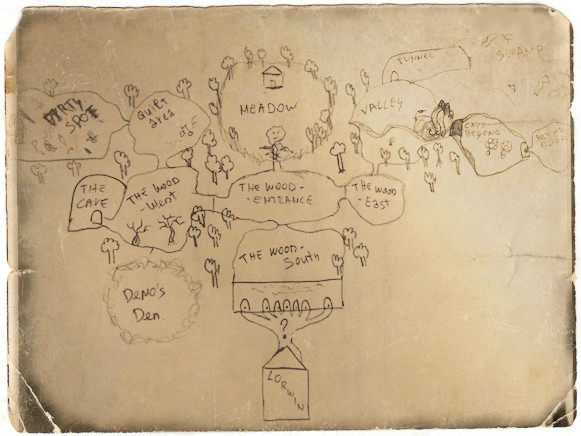
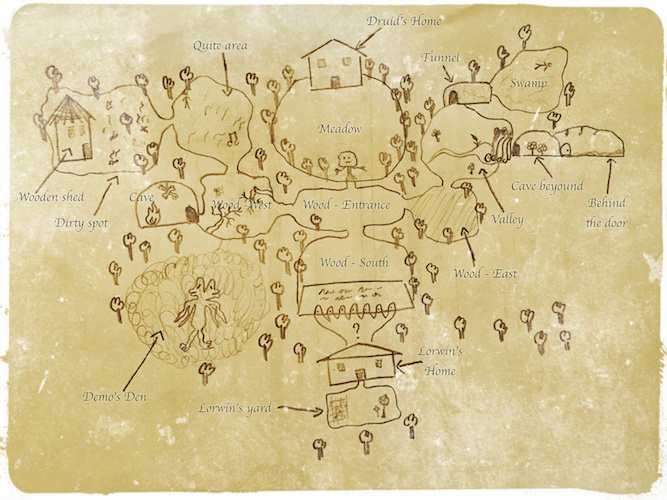
bug fixes, new map

diff --git a/asd/src/Map.java b/asd/src/Map.java
@@ -160,15 +160,44 @@ public class Map implements Serializable{
 		cupboard.addMoney(50);
 		cupboard.addTool(new Tool("apple", "A green apple, it seems still sour", 2));
 		Rooms[2].addFixed(cupboard);
-
+		
 		NpcGood treant = new NpcGood("treant", "an enormous alive tree that blocks the passage to the wood", 100, 130,
 				false, "Pa ohz illu hyvbuk mvy tpsspvuz vm flhyz, iba pa pz uv tvyl aohu h tvuao vsk. Doha pz pa?");
 		Rooms[3].addnpcs(treant);
 		
-		Fixed chest8 = new Fixed("chest", null);
-		Tool mapPiece1 = new Tool("map piece","a piece of a map that looks more like a sketch made by a kid",0);
-		chest8.addTool(mapPiece1);
-		Rooms[4].addFixed(chest8);
+//		Tool apples = new Tool("a", "a green apple, seems quite sour", 5);
+//		Rooms[3].addTool(apples);
+//		Tool apple1r = new Tool("b", "a green apple, seems quite sour", 5);
+//		Rooms[3].addTool(apple1r);
+//		Tool apple2r = new Tool("c", "a green apple, seems quite sour", 5);
+//		Rooms[3].addTool(apple2r);
+//		Tool apple3 = new Tool("d", "a green apple, seems quite sour", 5);
+//		Rooms[3].addTool(apple3);
+//		Tool apple4 = new Tool("e", "a green apple, seems quite sour", 5);
+//		Rooms[3].addTool(apple4);
+//		Tool apple44 = new Tool("f", "a green apple, seems quite sour", 5);
+//		Rooms[3].addTool(apple44);
+//		Tool apple24 = new Tool("g", "a green apple, seems quite sour", 5);
+//		Rooms[3].addTool(apple24);
+//		Tool apple34 = new Tool("h", "a green apple, seems quite sour", 5);
+//		Rooms[3].addTool(apple34);
+//		Tool applee = new Tool("i", "a green apple, seems quite sour", 5);
+//		Rooms[3].addTool(applee);
+//		Tool apple1e = new Tool("l", "a green apple, seems quite sour", 5);
+//		Rooms[3].addTool(apple1e);
+//		Tool apple2e = new Tool("m", "a green apple, seems quite sour", 5);
+//		Rooms[3].addTool(apple2e);
+//		Tool apple3e = new Tool("n", "a green apple, seems quite sour", 5);
+//		Rooms[3].addTool(apple3e);
+//		Tool apple4e = new Tool("o", "a green apple, seems quite sour", 5);
+//		Rooms[3].addTool(apple4e);
+//		Tool apple44e = new Tool("p", "a green apple, seems quite sour", 5);
+//		Rooms[3].addTool(apple44e);
+//		Tool apple24e = new Tool("q", "a green apple, seems quite sour", 5);
+//		Rooms[3].addTool(apple24e);
+//		Tool apple34e = new Tool("a", "a green apple, seems quite sour", 5);
+//		Rooms[3].addTool(apple34e);
+		
 		Merchant merchant1 = new Merchant("merchant", "a little man almost looking like a gnome with a huge bag on his back",
 				100, 300, "Greetings traveller, would you like to buy anything?", 3);
 		Weapon whip = new Weapon("whip", "a long brown whip", 80, 12, 0.95f);
@@ -184,6 +213,8 @@ public class Map implements Serializable{
 		Rooms[4].addnpcs(merchant1);
 		
 		Fixed chest2 = new Fixed("chest", null);
+		Tool mapPiece1 = new Tool("map piece","a piece of a map that looks more like a sketch made by a kid",0);
+		chest2.addTool(mapPiece1);
 		chest2.addMoney(100);
 		chest2.addTool(new Tool("potion", "A little flusk with a green liquid inside it", 50));
 		Rooms[5].addFixed(chest2);

diff --git a/asd/src/Game.java b/asd/src/Game.java
@@ -172,15 +172,15 @@ public class Game {
 		
 		if(frame.getMapPieces() == 1){
 			nf.getContentPane().add(new JLabel(new ImageIcon("./lib/mapPieces/piece1.jpg")));
-			nf.setSize(new Dimension(260, 460));
+			nf.setSize(new Dimension(266, 500));
 		}
 		else if(frame.getMapPieces() == 2){
 			nf.getContentPane().add(new JLabel(new ImageIcon("./lib/mapPieces/piece2.jpg")));
-			nf.setSize(new Dimension(450, 400));
+			nf.setSize(new Dimension(455, 500));
 		}
 		else if(frame.getMapPieces() == 3){
 			nf.getContentPane().add(new JLabel(new ImageIcon("./lib/mapPieces/piece3.jpg")));
-			nf.setSize(new Dimension(600, 450));
+			nf.setSize(new Dimension(667, 500));
 		}
 		nf.setVisible(true);
 		
@@ -300,7 +300,7 @@ public class Game {
 			return "What do you want to open? <BR>Write 'open -object-'"+ beingattacked();
 		}
 		if (currentPlayer.getCurrentRoom().getName().equals("THE WOOD - South")) {
-			if (command.getSecondWord().equals("door") || command.getSecondWord().equals("the door"))
+			if (command.getSecondWord().equals("door"))
 				return "which one of them? write 'open door -number-'";
 			String[] tmp = command.getSecondWord().split(" ");
 			if (tmp[0].equals("door") && StringUtils.isNumeric(tmp[1])) {
@@ -442,10 +442,10 @@ public class Game {
 		} else {
 			//if you take any of the two flowers in the cave the other one disappears
 			if ((temp = currentPlayer.getCurrentRoom().getItemNamed(command.getSecondWord())) != null) { 
-				if (frame.BagFull() && (temp.getClass() == Tool.class)) {
-					return "Your bag is full";
-				}
 				if (temp.getClass() == Tool.class || temp.getClass() == Weapon.class) {
+					if (frame.BagFull() && currentPlayer.getToolFromString(command.getSecondWord()) == null) {
+						return "Your bag is full";
+					}
 					if(temp.getName().equals("hibiscus flower")){
 						currentPlayer.getCurrentRoom().removeItemNamed("belladonna flower");
 					}

diff --git a/asd/src/GameWindow.java b/asd/src/GameWindow.java
@@ -307,16 +307,13 @@ public class GameWindow extends JFrame{
 			ingrCounter ++;
 			}
 	}
-	
+
 	/**
 	 * add a tool to the correct label in the bag
 	 * @param tool
 	 */
 	public void addItemToMenu(Tool tool) {
-		if (itemCounter <= endItem) {
-			if (itemCounter == endItem) {
-				fullBag = true;
-			}
+		if (itemCounter <= endItem + 2) {
 			for (int j = startItem; j <= endItem; j = j + 2) {
 				if (labels[j].getText().equals(tool.getName())) {
 					int tmp = Integer.parseInt(labels[j + 1].getText());
@@ -326,7 +323,10 @@ public class GameWindow extends JFrame{
 			}
 			labels[itemCounter].setText(tool.getName());
 			labels[itemCounter + 1].setText(1 + "");
-			itemCounter += 2;
+			if (itemCounter == endItem) {
+				fullBag = true;
+			}
+				itemCounter += 2;
 		}
 	}
 
